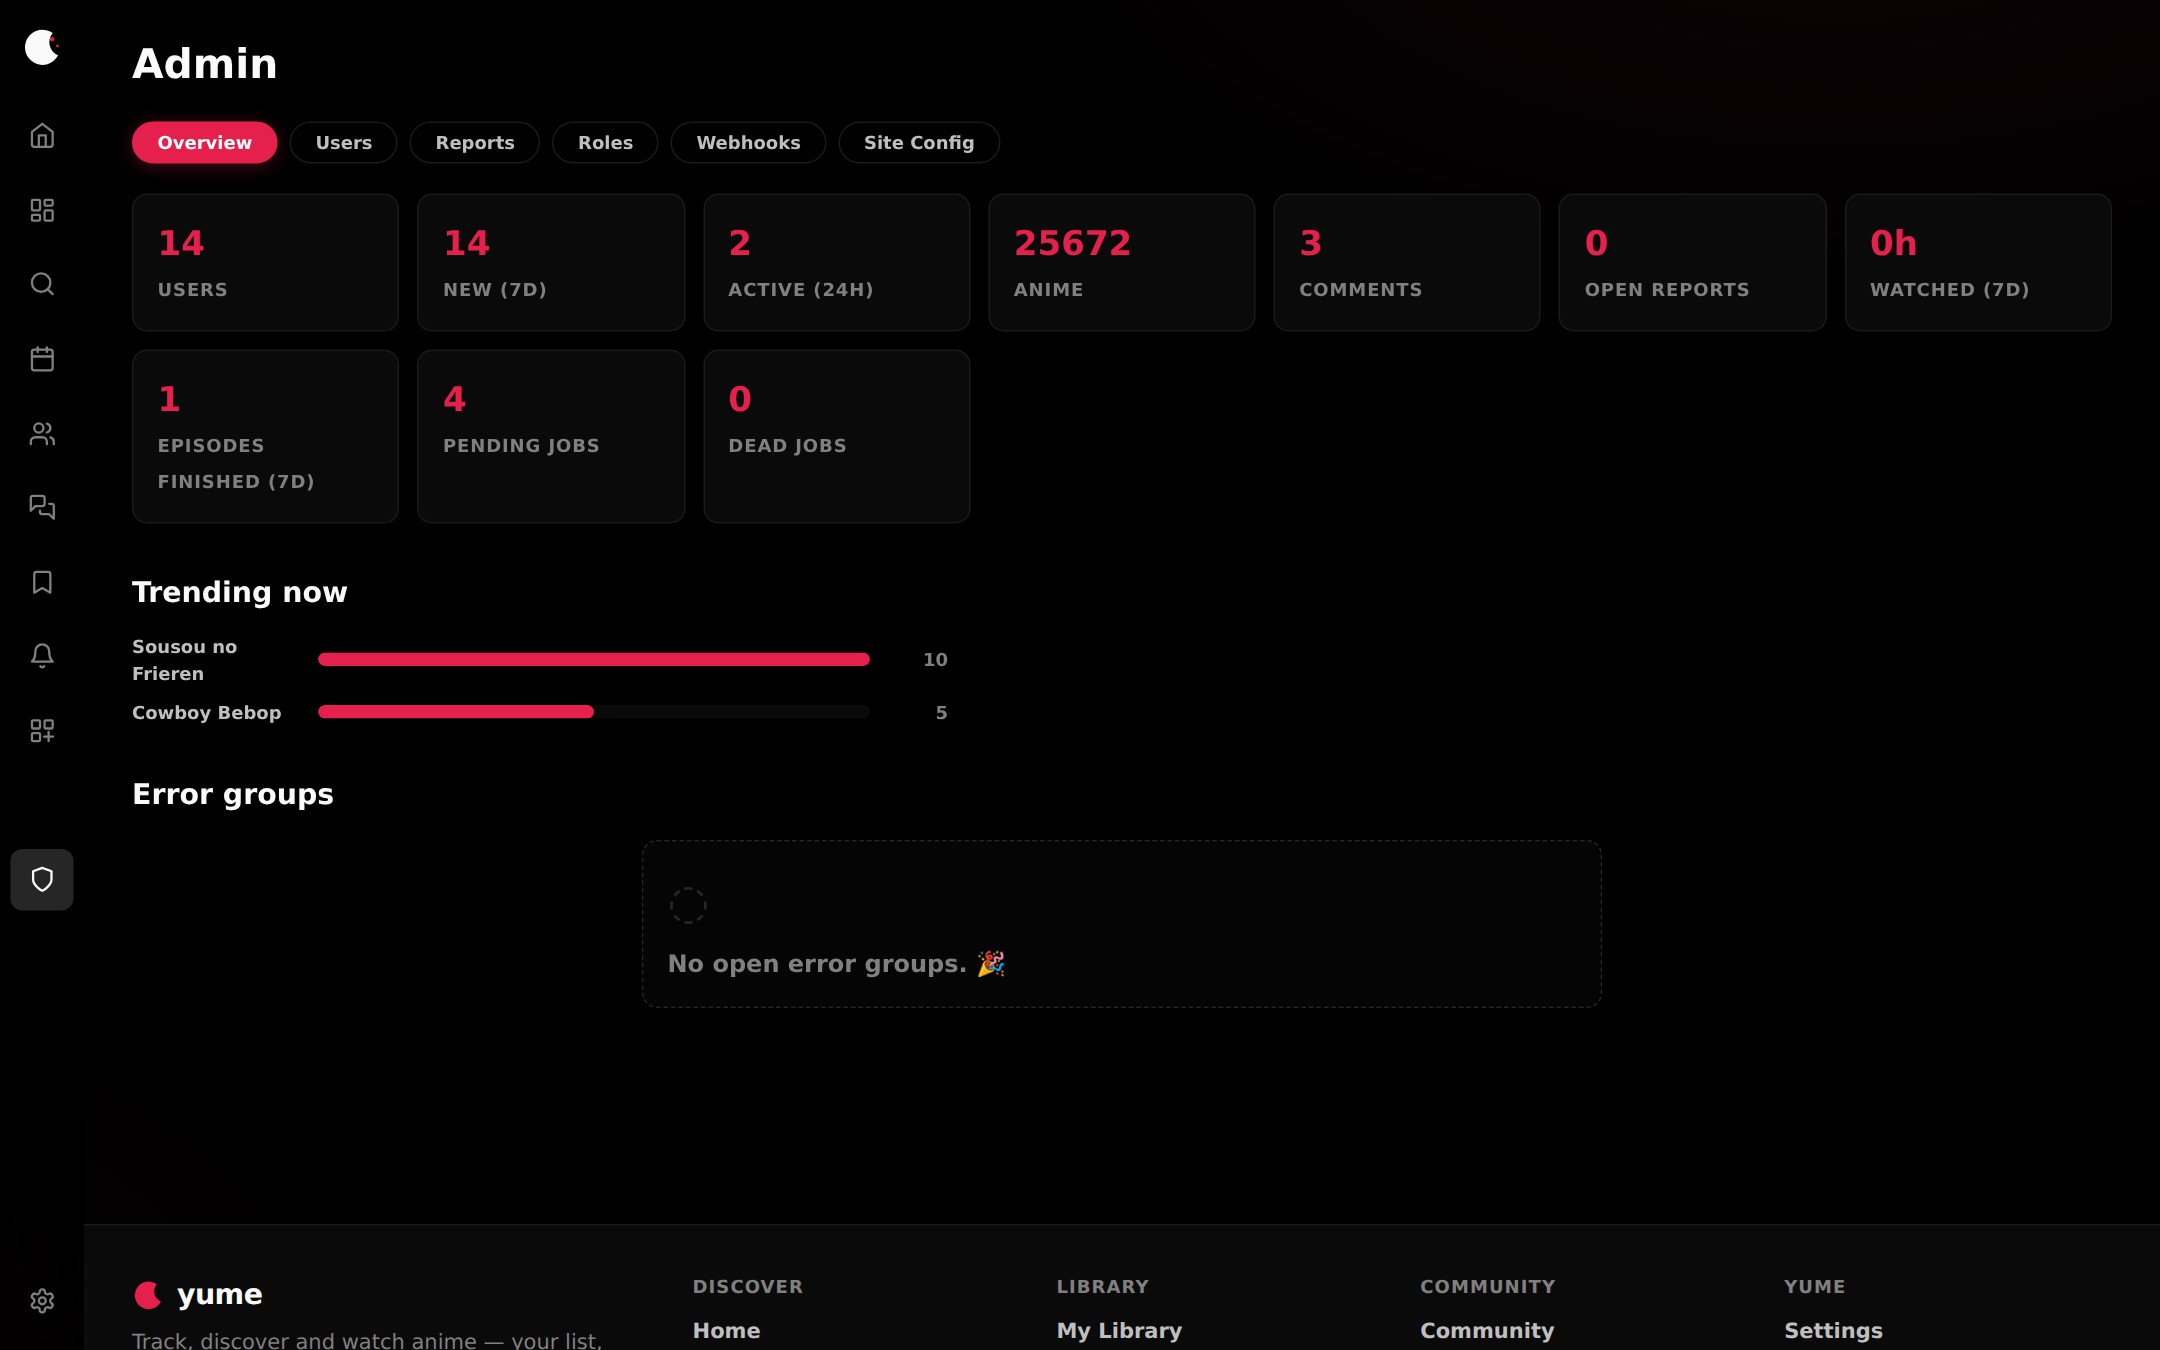
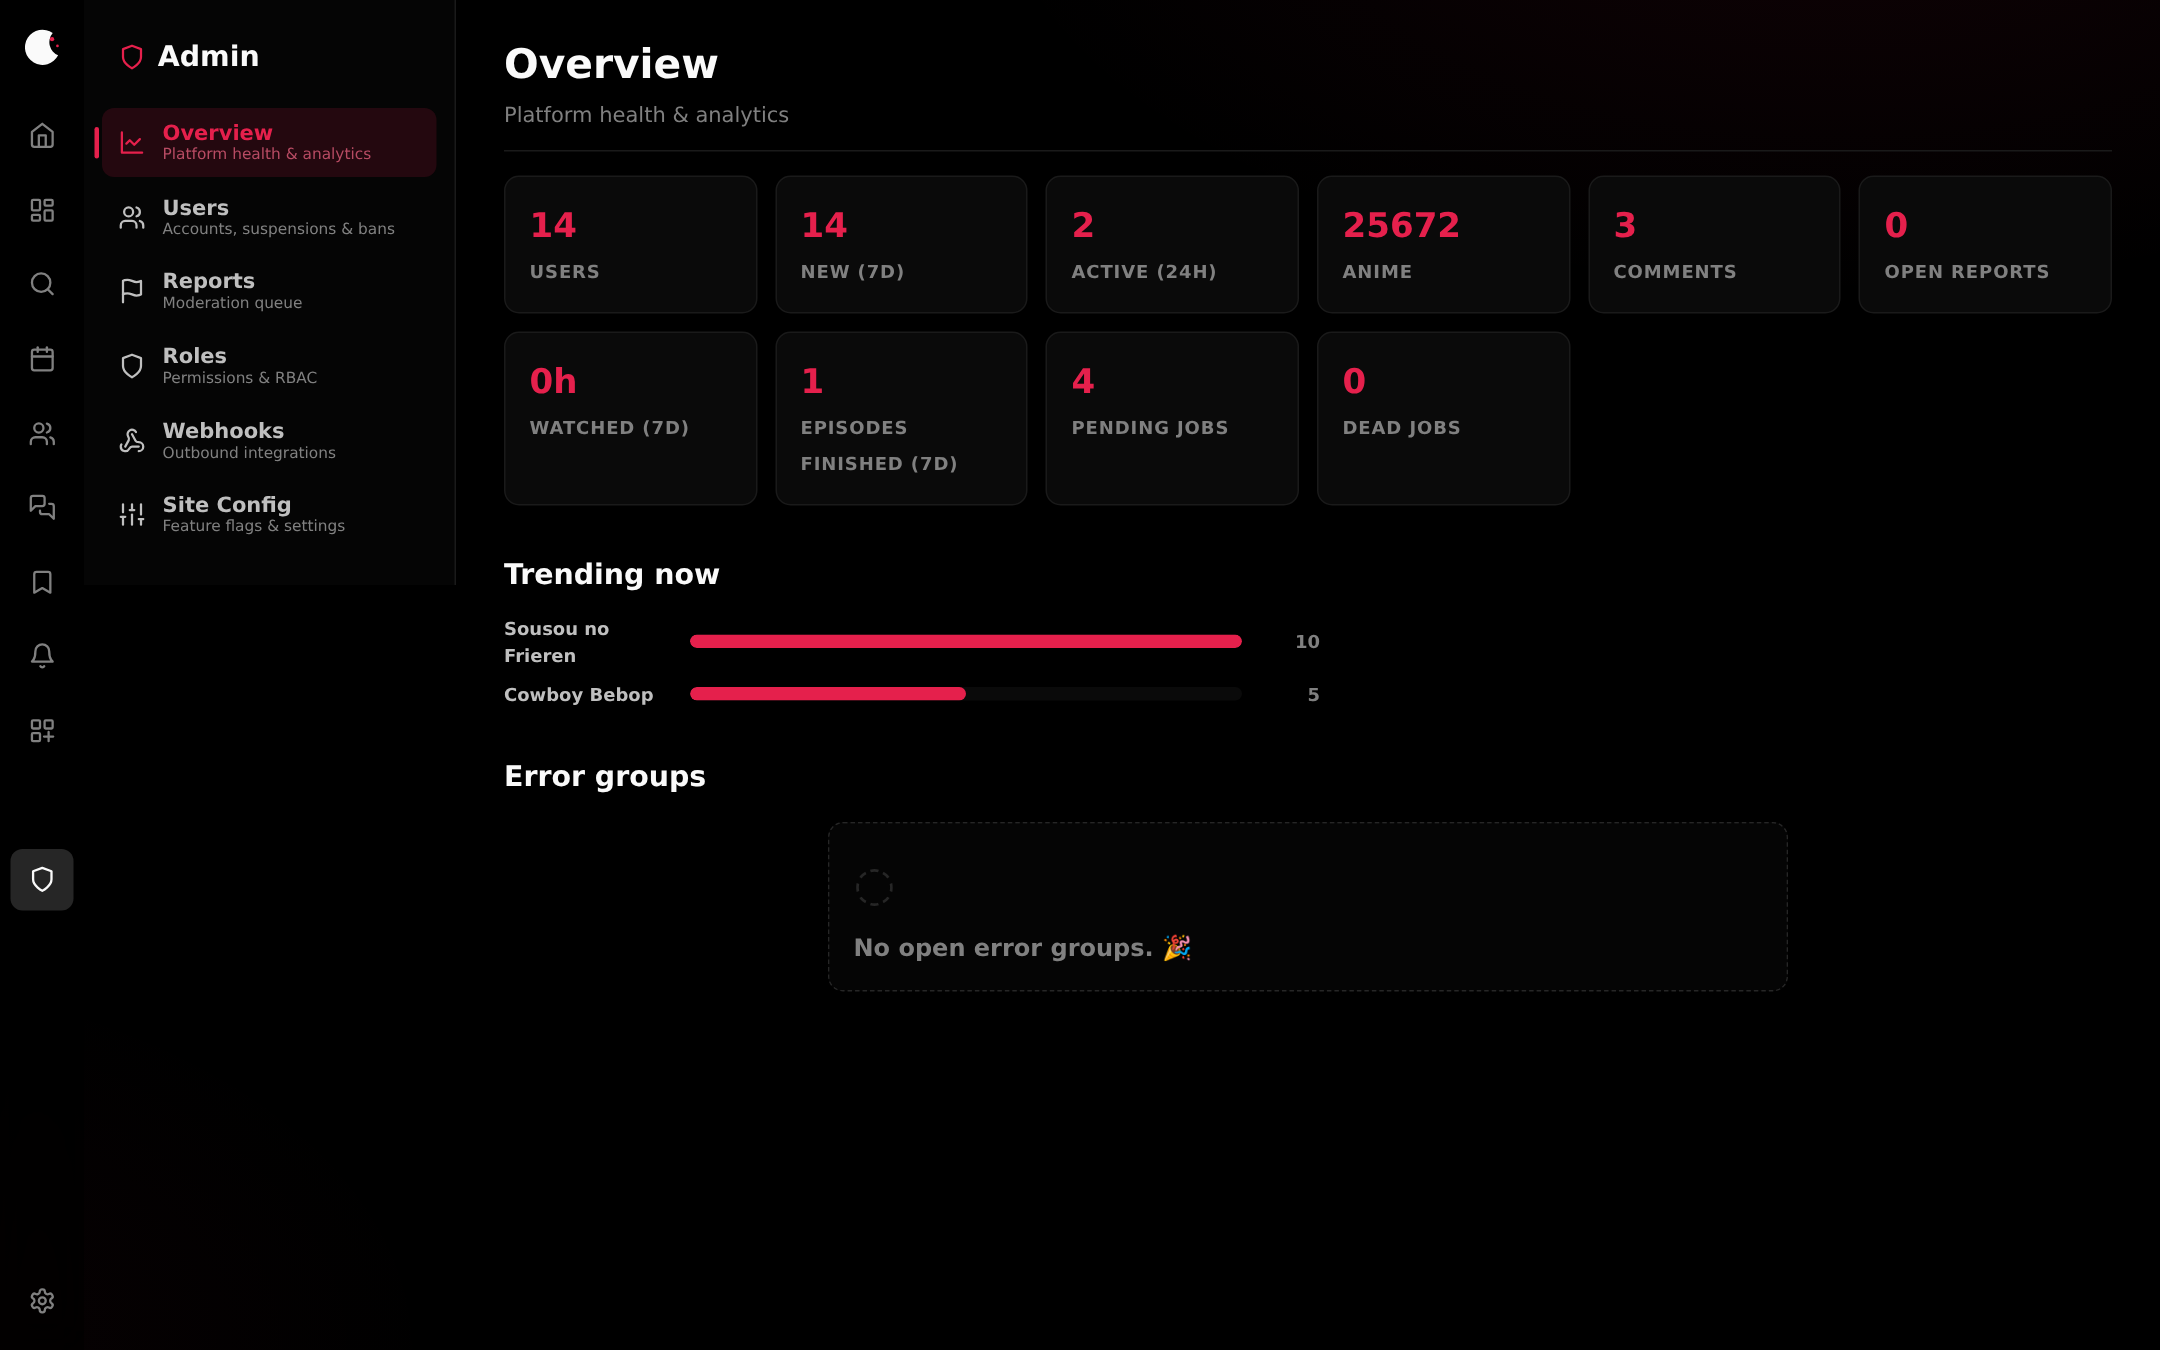
Redesign admin page with a dedicated secondary sidebar
Replace the top-pill-tab admin layout with a two-column shell: a
dedicated left admin-nav rail (Overview / Users / Reports / Roles /
Webhooks / Site Config, each with icon, label and subtitle) and a
right content panel. Section switching swaps content in place and
deep-links via history.replaceState (no full re-render).

Fix a footer-ordering bug: navigate() now awaits async page handlers
(admin is async) behind a navigation-generation guard, so the site
footer lands after the content instead of above the still-pending
admin shell.

Regenerate the admin / site-config / roles / admin-mobile screenshots.

Claude-Session: https://claude.ai/code/session_01F6VbCQHrnryWxLpoFz5Tsm

diff --git a/web/js/pages/admin.js b/web/js/pages/admin.js
@@ -4,57 +4,75 @@
 // server enforces them regardless.
 
 const PageAdmin = {
-  async render (root) {
-    const pad = U.el('div', { class: 'page-pad' })
-    root.append(pad)
-    pad.append(U.el('h1', { class: 'page-title', text: 'Admin' }))
+  SECTIONS: [
+    { key: 'overview', label: 'Overview',    sub: 'Platform health & analytics', perm: 'admin.analytics.view', render: 'renderOverview', icon: '<path d="M3 3v18h18"/><path d="m19 9-5 5-4-4-3 3"/>' },
+    { key: 'users',    label: 'Users',       sub: 'Accounts, suspensions & bans', perm: 'admin.users.manage', render: 'renderUsers', icon: '<path d="M16 21v-2a4 4 0 0 0-4-4H6a4 4 0 0 0-4 4v2"/><circle cx="9" cy="7" r="4"/><path d="M22 21v-2a4 4 0 0 0-3-3.87"/><path d="M16 3.13a4 4 0 0 1 0 7.75"/>' },
+    { key: 'reports',  label: 'Reports',     sub: 'Moderation queue', perm: 'community.moderate', render: 'renderReports', icon: '<path d="M4 15s1-1 4-1 5 2 8 2 4-1 4-1V3s-1 1-4 1-5-2-8-2-4 1-4 1z"/><line x1="4" x2="4" y1="22" y2="15"/>' },
+    { key: 'roles',    label: 'Roles',       sub: 'Permissions & RBAC', perm: 'roles.manage', render: 'renderRoles', icon: '<path d="M12 22s8-4 8-10V5l-8-3-8 3v7c0 6 8 10 8 10"/>' },
+    { key: 'webhooks', label: 'Webhooks',    sub: 'Outbound integrations', perm: 'admin.webhooks.manage', render: 'renderWebhooks', icon: '<path d="M18 16.98h-5.99c-1.1 0-1.95.94-2.48 1.9A4 4 0 0 1 2 17c.01-.7.2-1.4.57-2"/><path d="m6 17 3.13-5.78c.53-.97.1-2.18-.5-3.1a4 4 0 1 1 6.89-4.06"/><path d="m12 6 3.13 5.73C15.66 12.7 16.9 13 18 13a4 4 0 0 1 0 8"/>' },
+    { key: 'config',   label: 'Site Config', sub: 'Feature flags & settings', perm: 'settings.system', render: 'renderConfig', icon: '<line x1="4" x2="4" y1="21" y2="14"/><line x1="4" x2="4" y1="10" y2="3"/><line x1="12" x2="12" y1="21" y2="12"/><line x1="12" x2="12" y1="8" y2="3"/><line x1="20" x2="20" y1="21" y2="16"/><line x1="20" x2="20" y1="12" y2="3"/><line x1="2" x2="6" y1="14" y2="14"/><line x1="10" x2="14" y1="8" y2="8"/><line x1="18" x2="22" y1="16" y2="16"/>' }
+  ],
 
+  async render (root, params) {
     const perms = await YumeAPI.myPermissions()
-    const canUsers = perms.includes('admin.users.manage')
-    const canModerate = perms.includes('community.moderate')
-    const canAnalytics = perms.includes('admin.analytics.view')
-    const canWebhooks = perms.includes('admin.webhooks.manage')
-    const canConfig = perms.includes('settings.system')
-    const canRoles = perms.includes('roles.manage')
+    const available = this.SECTIONS.filter(s => perms.includes(s.perm))
 
-    if (!canUsers && !canModerate && !canAnalytics && !canWebhooks && !canConfig && !canRoles) {
+    if (!available.length) {
+      const pad = U.el('div', { class: 'page-pad' })
+      root.append(pad)
+      pad.append(U.el('h1', { class: 'page-title', text: 'Admin' }))
       pad.append(U.el('div', { class: 'callout', text: 'You need moderator or admin permissions to see this page.' }))
       return
     }
 
-    const TABS = [
-      canAnalytics && ['overview', 'Overview'],
-      canUsers && ['users', 'Users'],
-      canModerate && ['reports', 'Reports'],
-      canRoles && ['roles', 'Roles'],
-      canWebhooks && ['webhooks', 'Webhooks'],
-      canConfig && ['config', 'Site Config']
-    ].filter(Boolean)
+    const start = available.find(s => s.key === params?.get?.('s')) ?? available[0]
+    const state = { section: start }
 
-    const state = { tab: TABS[0][0] }
-    const tabs = U.el('div', { class: 'tabs' })
-    const content = U.el('div', { style: 'margin-top:1.25rem;' })
-    pad.append(tabs, content)
+    // ---- shell: admin nav rail + content ----
+    const shell = U.el('div', { class: 'admin-shell' })
+    root.append(shell)
 
-    const renderTabs = () => {
-      tabs.replaceChildren(...TABS.map(([value, label]) => U.el('button', {
-        class: 'tab' + (state.tab === value ? ' active' : ''),
-        onclick: () => { state.tab = value; renderTabs(); renderContent() }
-      }, [document.createTextNode(label)])))
+    const nav = U.el('aside', { class: 'admin-nav' })
+    nav.append(U.el('div', { class: 'admin-nav-head' }, [
+      U.svg('<path d="M12 22s8-4 8-10V5l-8-3-8 3v7c0 6 8 10 8 10"/>', 18),
+      U.el('span', { text: 'Admin' })
+    ]))
+    const navItems = {}
+    for (const s of available) {
+      const item = U.el('button', {
+        class: 'admin-nav-item' + (s.key === state.section.key ? ' active' : ''),
+        onclick: () => select(s)
+      }, [
+        U.svg(s.icon, 18),
+        U.el('div', { class: 'admin-nav-text' }, [
+          U.el('b', { text: s.label }),
+          U.el('span', { text: s.sub })
+        ])
+      ])
+      navItems[s.key] = item
+      nav.append(item)
     }
+    shell.append(nav)
 
-    const renderContent = () => {
-      content.replaceChildren(U.el('div', { class: 'spinner' }))
-      if (state.tab === 'overview') this.renderOverview(content)
-      else if (state.tab === 'users') this.renderUsers(content)
-      else if (state.tab === 'reports') this.renderReports(content)
-      else if (state.tab === 'roles') this.renderRoles(content)
-      else if (state.tab === 'config') this.renderConfig(content)
-      else this.renderWebhooks(content)
+    const main = U.el('div', { class: 'admin-content' })
+    const head = U.el('div', { class: 'admin-content-head' })
+    const body = U.el('div', { class: 'admin-content-body' })
+    main.append(head, body)
+    shell.append(main)
+
+    const select = s => {
+      state.section = s
+      Object.values(navItems).forEach(i => i.classList.remove('active'))
+      navItems[s.key]?.classList.add('active')
+      history.replaceState(null, '', `#/admin?s=${s.key}`) // deep-link without a re-render
+      head.replaceChildren(
+        U.el('h1', { class: 'admin-content-title', text: s.label }),
+        U.el('p', { class: 'admin-content-sub', text: s.sub })
+      )
+      body.replaceChildren(U.el('div', { class: 'spinner' }))
+      this[s.render](body)
     }
-
-    renderTabs()
-    renderContent()
+    select(state.section)
   },
 
   // ---- Roles & permissions (fine-grained RBAC) ----

diff --git a/web/css/style.css b/web/css/style.css
@@ -2400,6 +2400,71 @@ svg.chart .chart-name { font-size: 12px; fill: var(--fg); dominant-baseline: mid
 .flag-access { font-size: var(--text-xs); min-width: 8rem; }
 .flag-perm { font-size: var(--text-xs); }
 
+/* ===== admin: two-column shell with a section nav rail ===== */
+
+.admin-shell {
+  display: grid;
+  grid-template-columns: 15.5rem minmax(0, 1fr);
+  align-items: stretch;
+  min-height: calc(100dvh - 3.6rem);
+}
+.admin-nav {
+  border-right: 1px solid var(--border);
+  background: color-mix(in oklab, var(--bg-raised) 45%, transparent);
+  padding: var(--space-5) var(--space-3);
+  position: sticky;
+  top: 0;
+  align-self: start;
+  display: flex;
+  flex-direction: column;
+  gap: .25rem;
+}
+.admin-nav-head {
+  display: flex; align-items: center; gap: .5rem;
+  font-weight: var(--weight-black); font-size: var(--text-lg);
+  padding: 0 .7rem var(--space-4);
+}
+.admin-nav-head svg { color: var(--accent); }
+.admin-nav-item {
+  display: flex; align-items: center; gap: .7rem;
+  text-align: left; border: none; background: none; cursor: pointer;
+  padding: .55rem .7rem;
+  border-radius: var(--radius-md);
+  color: var(--fg-muted);
+  transition: background var(--dur-fast) var(--ease-out), color var(--dur-fast) var(--ease-out);
+  position: relative;
+}
+.admin-nav-item:hover { background: var(--bg-raised); color: var(--fg); }
+.admin-nav-item.active { background: var(--accent-soft); color: var(--accent); }
+.admin-nav-item.active::before {
+  content: ''; position: absolute; left: -.3rem; top: 50%; transform: translateY(-50%);
+  width: 3px; height: 1.3rem; border-radius: var(--radius-full); background: var(--accent);
+}
+.admin-nav-item svg { flex-shrink: 0; }
+.admin-nav-text b { display: block; font-size: var(--text-sm); font-weight: var(--weight-bold); }
+.admin-nav-text span { display: block; font-size: .64rem; color: var(--fg-faint); }
+.admin-nav-item.active .admin-nav-text span { color: color-mix(in srgb, var(--accent) 55%, var(--fg-faint)); }
+
+.admin-content { padding: var(--space-5) var(--space-6) var(--space-7); min-width: 0; }
+.admin-content-head { margin-bottom: var(--space-4); padding-bottom: var(--space-3); border-bottom: 1px solid var(--border); }
+.admin-content-title { font-size: var(--text-2xl); font-weight: var(--weight-black); margin: 0; }
+.admin-content-sub { color: var(--fg-faint); font-size: var(--text-sm); margin: .15rem 0 0; }
+.admin-content-body { min-width: 0; }
+
+@media (max-width: 820px) {
+  .admin-shell { grid-template-columns: 1fr; min-height: 0; }
+  .admin-nav {
+    position: static; flex-direction: row; overflow-x: auto;
+    border-right: none; border-bottom: 1px solid var(--border);
+    padding: var(--space-3);
+  }
+  .admin-nav-head { display: none; }
+  .admin-nav-item { flex-shrink: 0; }
+  .admin-nav-item.active::before { display: none; }
+  .admin-nav-text span { display: none; }
+  .admin-content { padding: var(--space-4); }
+}
+
 /* ===== admin: roles & permissions ===== */
 
 .roles-layout { display: grid; grid-template-columns: 15rem 1fr; gap: var(--space-5); align-items: start; }

diff --git a/web/js/app.js b/web/js/app.js
@@ -38,7 +38,10 @@ const App = {
     themes: '#/settings?tab=appearance'
   },
 
-  navigate () {
+  _navGen: 0,
+
+  async navigate () {
+    const gen = ++this._navGen
     const { route, arg, params } = this.parseHash()
     if (this.REDIRECTS[route]) { window.location.replace(this.REDIRECTS[route]); return }
     const page = document.getElementById('page')
@@ -68,10 +71,13 @@ const App = {
 
     const handler = this.routes[route] ?? this.routes.home
     try {
-      handler(page, params, arg)
+      await handler(page, params, arg) // async pages (e.g. admin) finish before the footer lands
     } catch (e) {
       page.replaceChildren(U.el('div', { class: 'error-state', text: 'Something went wrong: ' + e.message }))
     }
+
+    // a newer navigation superseded us while an async handler was in flight
+    if (gen !== this._navGen) return
 
     // site footer on standard content pages (not on immersive / picker screens)
     if (!['watch', 'w2g', 'profiles'].includes(route)) page.append(C.footer())
